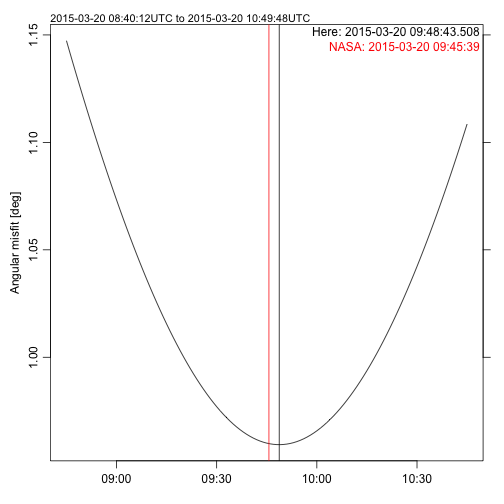
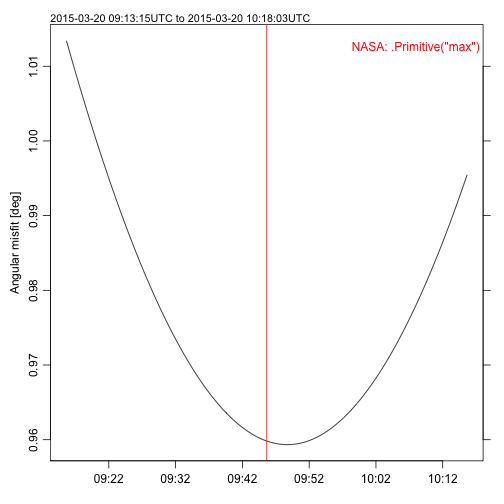
eclipse

diff --git a/_site/r/2015/03/20/eclipse.html b/_site/r/2015/03/20/eclipse.html
@@ -127,16 +127,6 @@ written in black near the top of the graph. The red line is the estimate of
 eclipse maximum from e.g. [3] The red line is the estimate of eclipse maximum
 from [3].</p>
 
-<table class="highlighttable"><tr><td class="linenos"><div class="linenodiv"><pre><code class="r">1</code></pre></div></td><td class="code"><div class="highlight"><pre>library<span class="p">(</span>oce<span class="p">)</span>
-</pre></div>
-</td></tr></table>
-
-<div class="highlight"><pre><code class="text">## Loading required package: methods
-## Loading required package: mapproj
-## Loading required package: maps
-## Loading required package: gsw
-</code></pre></div>
-
 <table class="highlighttable"><tr><td class="linenos"><div class="linenodiv"><pre><code class="r"> 1
  2
  3
@@ -158,12 +148,8 @@ from [3].</p>
 19
 20
 21
-22
-23
-24
-25
-26
-27</code></pre></div></td><td class="code"><div class="highlight"><pre>angle <span class="o">&lt;-</span> <span class="kr">function</span><span class="p">(</span>t<span class="p">,</span> lon<span class="o">=</span><span class="m">15+40</span><span class="o">/</span><span class="m">60</span><span class="p">,</span> lat<span class="o">=</span><span class="m">78+12</span><span class="o">/</span><span class="m">60</span><span class="p">)</span>
+22</code></pre></div></td><td class="code"><div class="highlight"><pre>library<span class="p">(</span>oce<span class="p">)</span>
+angle <span class="o">&lt;-</span> <span class="kr">function</span><span class="p">(</span>t<span class="p">,</span> lon<span class="o">=</span><span class="m">15+40</span><span class="o">/</span><span class="m">60</span><span class="p">,</span> lat<span class="o">=</span><span class="m">78+12</span><span class="o">/</span><span class="m">60</span><span class="p">)</span>
 <span class="p">{</span>
     <span class="c1">## Default location is Longyearbyen, Svalbard</span>
     sa <span class="o">&lt;-</span> sunAngle<span class="p">(</span>t<span class="p">,</span> lon<span class="p">,</span> lat<span class="p">)</span>
@@ -175,21 +161,45 @@ from [3].</p>
     C <span class="o">&lt;-</span> cos<span class="p">(</span><span class="m">0.5</span><span class="o">*</span><span class="p">(</span>ma<span class="o">$</span>altitude<span class="o">+</span>sa<span class="o">$</span>altitude<span class="p">)</span> <span class="o">*</span> pi <span class="o">/</span> <span class="m">180</span><span class="p">)</span>
     sqrt<span class="p">((</span>C<span class="o">*</span><span class="p">(</span>saz<span class="o">-</span>maz<span class="p">))</span><span class="o">^</span><span class="m">2</span> <span class="o">+</span> <span class="p">(</span>sal<span class="o">-</span>mal<span class="p">)</span><span class="o">^</span><span class="m">2</span><span class="p">)</span>
 <span class="p">}</span>
-t0 <span class="o">&lt;-</span> as.POSIXct<span class="p">(</span><span class="s">&quot;2015-03-20 9:45:00&quot;</span><span class="p">,</span> tz<span class="o">=</span><span class="s">&quot;UTC&quot;</span><span class="p">)</span>
-times <span class="o">&lt;-</span> t0 <span class="o">+</span> seq<span class="p">(</span><span class="m">-3600</span><span class="p">,</span> <span class="m">3600</span><span class="p">,</span> <span class="m">60</span><span class="p">)</span>
+<span class="c1"># time is from reference 3</span>
+nasa <span class="o">&lt;-</span> as.POSIXct<span class="p">(</span><span class="s">&quot;2015-03-20 9:45:39&quot;</span><span class="p">,</span> tz<span class="o">=</span><span class="s">&quot;UTC&quot;</span><span class="p">)</span>
+times <span class="o">&lt;-</span> nasa <span class="o">+</span> seq<span class="p">(</span><span class="m">-1800</span><span class="p">,</span> <span class="m">1800</span><span class="p">,</span> <span class="m">30</span><span class="p">)</span>
 misfit <span class="o">&lt;-</span> <span class="kc">NULL</span>
 <span class="kr">for</span> <span class="p">(</span>i <span class="kr">in</span> seq_along<span class="p">(</span>times<span class="p">))</span> <span class="p">{</span>
     misfit <span class="o">&lt;-</span> c<span class="p">(</span>misfit<span class="p">,</span> angle<span class="p">(</span>times<span class="p">[</span>i<span class="p">]))</span>
 <span class="p">}</span>
 oce.plot.ts<span class="p">(</span>times<span class="p">,</span> misfit<span class="p">,</span> ylab<span class="o">=</span><span class="s">&quot;Angular misfit [deg]&quot;</span><span class="p">)</span>
 o <span class="o">&lt;-</span> optimize<span class="p">(</span><span class="kr">function</span><span class="p">(</span>t<span class="p">)</span> angle<span class="p">(</span>t0<span class="o">+</span>t<span class="p">),</span> lower<span class="o">=</span><span class="m">-3600</span><span class="p">,</span> upper<span class="o">=</span><span class="m">3600</span><span class="p">)</span>
-eclipse <span class="o">&lt;-</span> t0 <span class="o">+</span> o<span class="o">$</span>minimum
-<span class="c1"># reference 3</span>
-max <span class="o">&lt;-</span> as.POSIXct<span class="p">(</span><span class="s">&quot;2015-03-20 9:45:39&quot;</span><span class="p">,</span> tz<span class="o">=</span><span class="s">&quot;UTC&quot;</span><span class="p">)</span>
-abline<span class="p">(</span>v<span class="o">=</span>eclipse<span class="p">,</span> col<span class="o">=</span><span class="s">&#39;black&#39;</span><span class="p">)</span>
-abline<span class="p">(</span>v<span class="o">=</span>max<span class="p">,</span> col<span class="o">=</span><span class="s">&#39;red&#39;</span><span class="p">)</span>
+</pre></div>
+</td></tr></table>
+
+<div class="highlight"><pre><code class="text">## Error in inherits(t, &quot;POSIXt&quot;): object &#39;t0&#39; not found
+</code></pre></div>
+
+<table class="highlighttable"><tr><td class="linenos"><div class="linenodiv"><pre><code class="r">1</code></pre></div></td><td class="code"><div class="highlight"><pre>eclipse <span class="o">&lt;-</span> t0 <span class="o">+</span> o<span class="o">$</span>minimum
+</pre></div>
+</td></tr></table>
+
+<div class="highlight"><pre><code class="text">## Error in eval(expr, envir, enclos): object &#39;t0&#39; not found
+</code></pre></div>
+
+<table class="highlighttable"><tr><td class="linenos"><div class="linenodiv"><pre><code class="r">1</code></pre></div></td><td class="code"><div class="highlight"><pre>abline<span class="p">(</span>v<span class="o">=</span>eclipse<span class="p">,</span> col<span class="o">=</span><span class="s">&#39;black&#39;</span><span class="p">)</span>
+</pre></div>
+</td></tr></table>
+
+<div class="highlight"><pre><code class="text">## Error in int_abline(a = a, b = b, h = h, v = v, untf = untf, ...): object &#39;eclipse&#39; not found
+</code></pre></div>
+
+<table class="highlighttable"><tr><td class="linenos"><div class="linenodiv"><pre><code class="r">1
+2</code></pre></div></td><td class="code"><div class="highlight"><pre>abline<span class="p">(</span>v<span class="o">=</span>nasa<span class="p">,</span> col<span class="o">=</span><span class="s">&#39;red&#39;</span><span class="p">)</span>
 mtext<span class="p">(</span>sprintf<span class="p">(</span><span class="s">&quot;Here: %s &quot;</span><span class="p">,</span> format<span class="p">(</span>eclipse<span class="p">)),</span> line<span class="o">=</span><span class="m">-1</span><span class="p">,</span> adj<span class="o">=</span><span class="m">1</span><span class="p">,</span> col<span class="o">=</span><span class="s">&quot;black&quot;</span><span class="p">)</span>
-mtext<span class="p">(</span>sprintf<span class="p">(</span><span class="s">&quot;NASA: %s &quot;</span><span class="p">,</span> format<span class="p">(</span>max<span class="p">)),</span> line<span class="o">=</span><span class="m">-2</span><span class="p">,</span> adj<span class="o">=</span><span class="m">1</span><span class="p">,</span> col<span class="o">=</span><span class="s">&quot;red&quot;</span><span class="p">)</span>
+</pre></div>
+</td></tr></table>
+
+<div class="highlight"><pre><code class="text">## Error in format(eclipse): object &#39;eclipse&#39; not found
+</code></pre></div>
+
+<table class="highlighttable"><tr><td class="linenos"><div class="linenodiv"><pre><code class="r">1</code></pre></div></td><td class="code"><div class="highlight"><pre>mtext<span class="p">(</span>sprintf<span class="p">(</span><span class="s">&quot;NASA: %s &quot;</span><span class="p">,</span> format<span class="p">(</span>max<span class="p">)),</span> line<span class="o">=</span><span class="m">-2</span><span class="p">,</span> adj<span class="o">=</span><span class="m">1</span><span class="p">,</span> col<span class="o">=</span><span class="s">&quot;red&quot;</span><span class="p">)</span>
 </pre></div>
 </td></tr></table>
 

diff --git a/_posts/2015-03-20-eclipse.md b/_posts/2015-03-20-eclipse.md
@@ -45,20 +45,6 @@ from [3].
 
 {% highlight r linenos=table %}
 library(oce)
-{% endhighlight %}
-
-
-
-{% highlight text %}
-## Loading required package: methods
-## Loading required package: mapproj
-## Loading required package: maps
-## Loading required package: gsw
-{% endhighlight %}
-
-
-
-{% highlight r linenos=table %}
 angle <- function(t, lon=15+40/60, lat=78+12/60)
 {
     ## Default location is Longyearbyen, Svalbard
@@ -71,20 +57,63 @@ angle <- function(t, lon=15+40/60, lat=78+12/60)
     C <- cos(0.5*(ma$altitude+sa$altitude) * pi / 180)
     sqrt((C*(saz-maz))^2 + (sal-mal)^2)
 }
-t0 <- as.POSIXct("2015-03-20 9:45:00", tz="UTC")
-times <- t0 + seq(-3600, 3600, 60)
+# time is from reference 3
+nasa <- as.POSIXct("2015-03-20 9:45:39", tz="UTC")
+times <- nasa + seq(-1800, 1800, 30)
 misfit <- NULL
 for (i in seq_along(times)) {
     misfit <- c(misfit, angle(times[i]))
 }
 oce.plot.ts(times, misfit, ylab="Angular misfit [deg]")
 o <- optimize(function(t) angle(t0+t), lower=-3600, upper=3600)
+{% endhighlight %}
+
+
+
+{% highlight text %}
+## Error in inherits(t, "POSIXt"): object 't0' not found
+{% endhighlight %}
+
+
+
+{% highlight r linenos=table %}
 eclipse <- t0 + o$minimum
-# reference 3
-max <- as.POSIXct("2015-03-20 9:45:39", tz="UTC")
+{% endhighlight %}
+
+
+
+{% highlight text %}
+## Error in eval(expr, envir, enclos): object 't0' not found
+{% endhighlight %}
+
+
+
+{% highlight r linenos=table %}
 abline(v=eclipse, col='black')
-abline(v=max, col='red')
+{% endhighlight %}
+
+
+
+{% highlight text %}
+## Error in int_abline(a = a, b = b, h = h, v = v, untf = untf, ...): object 'eclipse' not found
+{% endhighlight %}
+
+
+
+{% highlight r linenos=table %}
+abline(v=nasa, col='red')
 mtext(sprintf("Here: %s ", format(eclipse)), line=-1, adj=1, col="black")
+{% endhighlight %}
+
+
+
+{% highlight text %}
+## Error in format(eclipse): object 'eclipse' not found
+{% endhighlight %}
+
+
+
+{% highlight r linenos=table %}
 mtext(sprintf("NASA: %s ", format(max)), line=-2, adj=1, col="red")
 {% endhighlight %}
 
